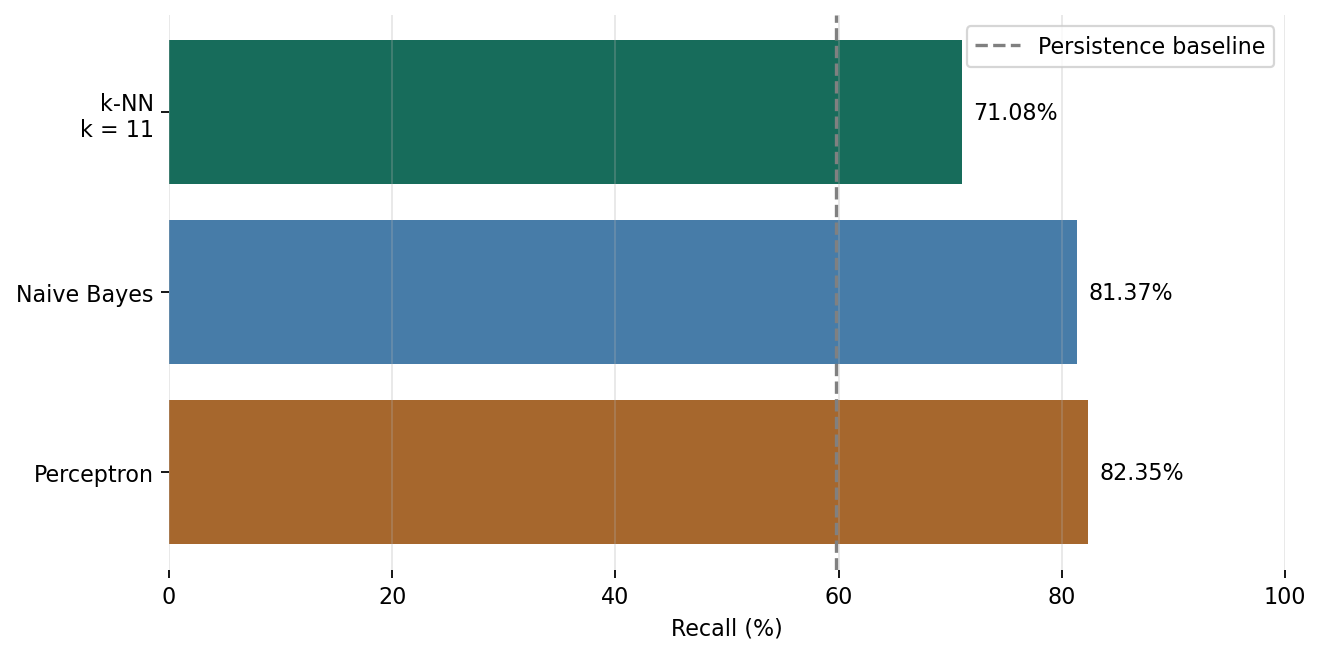
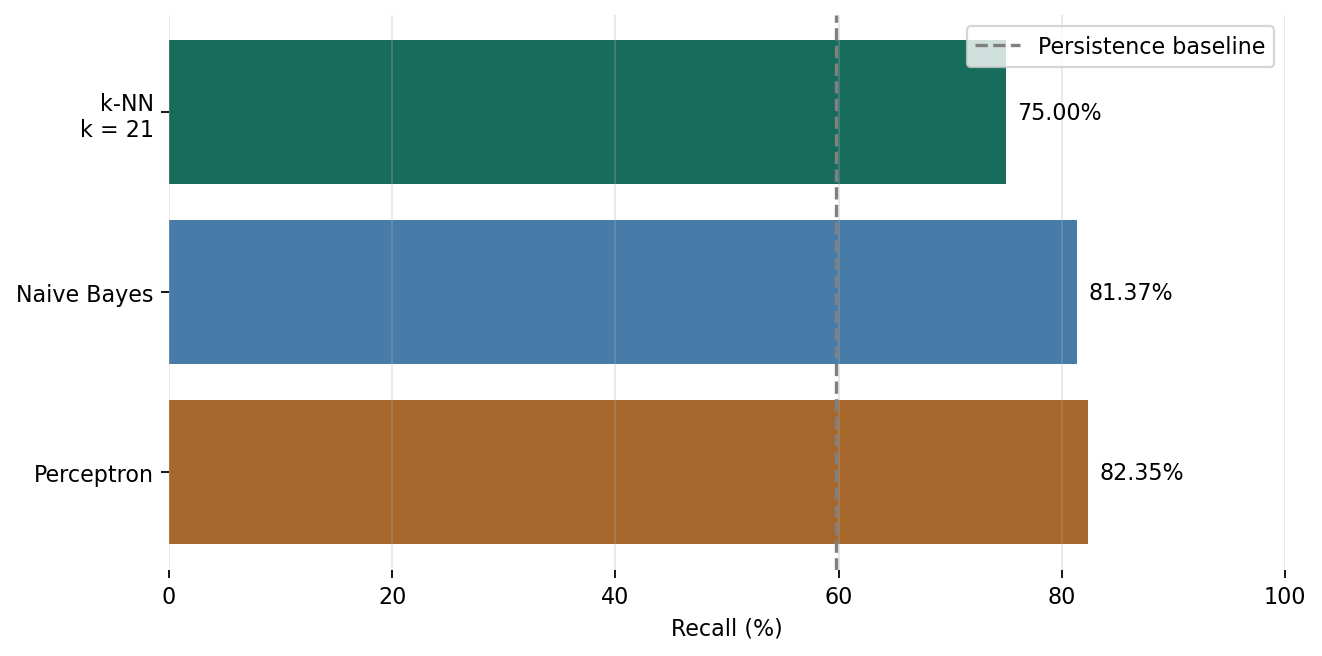
feat: website updates, with interpretation, discussion, conclusion

Changed region(s): [[0.7133, 0.061, 0.8374, 0.3049], [0.093, 0.1829, 0.1241, 0.2134]]

diff --git a/docs/index.html b/docs/index.html
@@ -97,7 +97,7 @@
         <div class="section-heading">
           <h2 id="results-title">Three methods. One test.</h2>
           <p>
-            We compare k-NN (k = 11), Gaussian Naive Bayes, and perceptron.
+            We compare k-NN (k = 21), Gaussian Naive Bayes, and perceptron.
             Every method predicts the same 375 test samples; a rise in inflation
             is the positive class.
           </p>
@@ -105,9 +105,11 @@
         <div class="results-grid">
           <div class="finding">
             <h3>Results interpretation</h3>
-            <!-- Add the group's interpretation here. -->
-            <p class="placeholder-text">
-              [interpretation]
+            <p class="report-text">
+              All three methods beat the 58.13% persistence baseline. k-NN (k =
+              21) was the most accurate at 72.80%, with precision and recall
+              both at 75.00%. The perceptron and Naive Bayes caught more
+              increases, but also produced more false alarms.
             </p>
           </div>
           <figure class="chart-panel">
@@ -121,21 +123,21 @@
                 <button
                   type="button"
                   data-metric="accuracy"
-                  data-alt="k-NN · k = 11: 72.00%; Naive Bayes: 65.87%; Perceptron: 67.20%. Persistence baseline: 58.13%."
+                  data-alt="k-NN · k = 21: 72.80%; Naive Bayes: 65.87%; Perceptron: 67.20%. Persistence baseline: 58.13%."
                   aria-pressed="true"
                 >
                   Accuracy</button
                 ><button
                   type="button"
                   data-metric="precision"
-                  data-alt="k-NN · k = 11: 75.92%; Naive Bayes: 64.84%; Perceptron: 65.88%. Persistence baseline: 61.93%."
+                  data-alt="k-NN · k = 21: 75.00%; Naive Bayes: 64.84%; Perceptron: 65.88%. Persistence baseline: 61.93%."
                   aria-pressed="false"
                 >
                   Precision</button
                 ><button
                   type="button"
                   data-metric="recall"
-                  data-alt="k-NN · k = 11: 71.08%; Naive Bayes: 81.37%; Perceptron: 82.35%. Persistence baseline: 59.80%."
+                  data-alt="k-NN · k = 21: 75.00%; Naive Bayes: 81.37%; Perceptron: 82.35%. Persistence baseline: 59.80%."
                   aria-pressed="false"
                 >
                   Recall
@@ -153,7 +155,7 @@
                 src="assets/images/comparison-accuracy.png"
                 width="1322"
                 height="656"
-                alt="Test accuracy: k-NN k11 72.00%, Naive Bayes 65.87%, perceptron 67.20%."
+                alt="Test accuracy: k-NN k21 72.80%, Naive Bayes 65.87%, perceptron 67.20%."
                 loading="lazy"
               />
             </div>
@@ -171,7 +173,8 @@
         >
           <table class="results-table">
             <caption>
-              Test performance · increase is the positive class
+              Test performance · increase is the positive class. Underlined
+              values are the highest in each column.
             </caption>
             <thead>
               <tr>
@@ -183,10 +186,10 @@
             </thead>
             <tbody>
               <tr>
-                <th scope="row">k-NN · k = 11</th>
-                <td>72.00%</td>
-                <td>75.92%</td>
-                <td>71.08%</td>
+                <th scope="row">k-NN · k = 21</th>
+                <td class="best-value">72.80%</td>
+                <td class="best-value">75.00%</td>
+                <td>75.00%</td>
               </tr>
               <tr>
                 <th scope="row">Naive Bayes</th>
@@ -198,7 +201,7 @@
                 <th scope="row">Perceptron</th>
                 <td>67.20%</td>
                 <td>65.88%</td>
-                <td>82.35%</td>
+                <td class="best-value">82.35%</td>
               </tr>
               <tr class="baseline-row">
                 <th scope="row">Persistence baseline</th>
@@ -240,7 +243,7 @@
                 src="assets/images/train-test.png"
                 width="1322"
                 height="718"
-                alt="Training/test accuracy: k11 82.05%/72.00%; Naive Bayes 74.54%/65.87%; perceptron 70.01%/67.20%."
+                alt="Training/test accuracy: k21 80.11%/72.80%; Naive Bayes 74.54%/65.87%; perceptron 70.01%/67.20%."
                 loading="lazy"
               />
             </div>
@@ -251,9 +254,12 @@
           </figure>
           <div class="analysis-note">
             <h3>Training and test interpretation</h3>
-            <!-- Add the group's interpretation here. -->
-            <p class="placeholder-text">
-              [interpretation]
+            <p class="report-text">
+              Every model scored lower on the later test months than on its
+              training data. Naive Bayes had the largest drop at 8.67 percentage
+              points, followed by k-NN at 7.31 and the perceptron at 2.81. k-NN
+              remained the most accurate on both sets. Its training score
+              includes each example as its own neighbor.
             </p>
           </div>
         </div>
@@ -277,10 +283,10 @@
             </thead>
             <tbody>
               <tr>
-                <th scope="row">k-NN · k = 11</th>
-                <td>82.05%</td>
-                <td>72.00%</td>
-                <td>+10.05 pp</td>
+                <th scope="row">k-NN · k = 21</th>
+                <td>80.11%</td>
+                <td>72.80%</td>
+                <td>+7.31 pp</td>
               </tr>
               <tr>
                 <th scope="row">Naive Bayes</th>
@@ -443,7 +449,7 @@
               <dl>
                 <div>
                   <dt>Displayed setting</dt>
-                  <dd>k = 11 · Euclidean distance (p = 2)</dd>
+                  <dd>k = 21 · Euclidean distance (p = 2)</dd>
                 </div>
                 <div>
                   <dt>Implementation</dt>
@@ -525,32 +531,47 @@
       >
         <div class="section-heading">
           <h2 id="discussion-title">Discussion</h2>
-          <p class="placeholder-text">
-              [insert discussion]
-            </p>
+          <p class="report-text">
+            The comparison highlights the value of features based on the same
+            month last year, and the different tradeoffs each model makes
+            between catching increases and avoiding false alarms.
+          </p>
         </div>
         <div class="discussion-grid">
           <article>
             <h3>Interpretation</h3>
-            <!-- Add the group's analysis here. -->
-            <p class="placeholder-text">
-              [interpretation]
+            <p class="report-text">
+              Across k = 3 to 33, k-NN accuracy stayed around 69–73%. We chose k
+              = 21 for its joint-highest accuracy and balanced precision and
+              recall. Perceptron accuracy ranged from about 54% to 67% across 11
+              settings, and more training passes did not consistently help. Its
+              consistently high recall suggests a tendency to predict increases;
+              a single linear boundary may not capture all the patterns in the
+              data.
             </p>
           </article>
           <article>
-            <h3>Limitations and improvements</h3>
-            <!-- Add the group's limitations and possible improvements here. -->
-            <p class="placeholder-text">
-              [insert limitations and improvements]
+            <h3>Limitations</h3>
+            <p class="report-text">
+              Regions move together, so the 375 test samples represent about 21
+              months of evidence. Small differences between models may be noise.
+              Training includes COVID and the 2022–23 price spike, while the
+              test period is calmer. A tiny 0.01-point change also receives the
+              same label as a 1-point change.
             </p>
           </article>
         </div>
         <div class="conclusion">
           <h3>Conclusion</h3>
-          <!-- Add the group's final conclusion here. -->
-          <p class="placeholder-text">
-              [insert final conclusion]
-            </p>
+          <p class="report-text">
+            Past price data helped predict regional inflation direction in this
+            test period: k-NN was correct 72.80% of the time, compared with
+            58.13% for repeating the previous direction. Features built around
+            the comparison with the same month last year gave the models a
+            useful basis for prediction. k-NN was the most accurate and
+            balanced, while the perceptron and Naive Bayes caught more rises at
+            the cost of more false alarms.
+          </p>
         </div>
       </section>
 

diff --git a/docs/styles.css b/docs/styles.css
@@ -450,8 +450,11 @@ tbody tr:hover {
 .baseline-row {
   color: var(--muted);
 }
-.results-table tbody tr:first-child {
-  background: var(--pale);
+.results-table .best-value {
+  text-decoration: underline;
+  text-decoration-color: var(--green);
+  text-decoration-thickness: 2px;
+  text-underline-offset: 5px;
 }
 .table-scroll + p {
   margin-top: 16px;
@@ -1039,7 +1042,7 @@ code {
   }
 }
 
-.placeholder-text {
+.report-text {
   color: var(--muted);
   border-left: 2px solid var(--line);
   padding-left: 16px;

diff --git a/run_knn.py b/run_knn.py
@@ -32,12 +32,12 @@ os.makedirs("results", exist_ok=True)
 
 # Save the training and test results for the combined comparison graphs.
 comparison_results = []
-training_predictions = predict(X_train, y_train, X_train, k=11)
+training_predictions = predict(X_train, y_train, X_train, k=21)
 train_tp, train_tn, train_fp, train_fn = count_metrics(training_predictions, y_train)
 for row in knn_results:
-    if row[0] == 11:
+    if row[0] == 21:
         comparison_results.append([
-            "k-NN k = 11", train_tp + train_tn, len(y_train),
+            "k-NN k = 21", train_tp + train_tn, len(y_train),
             row[1], row[2], row[3], row[4]
         ])
 
